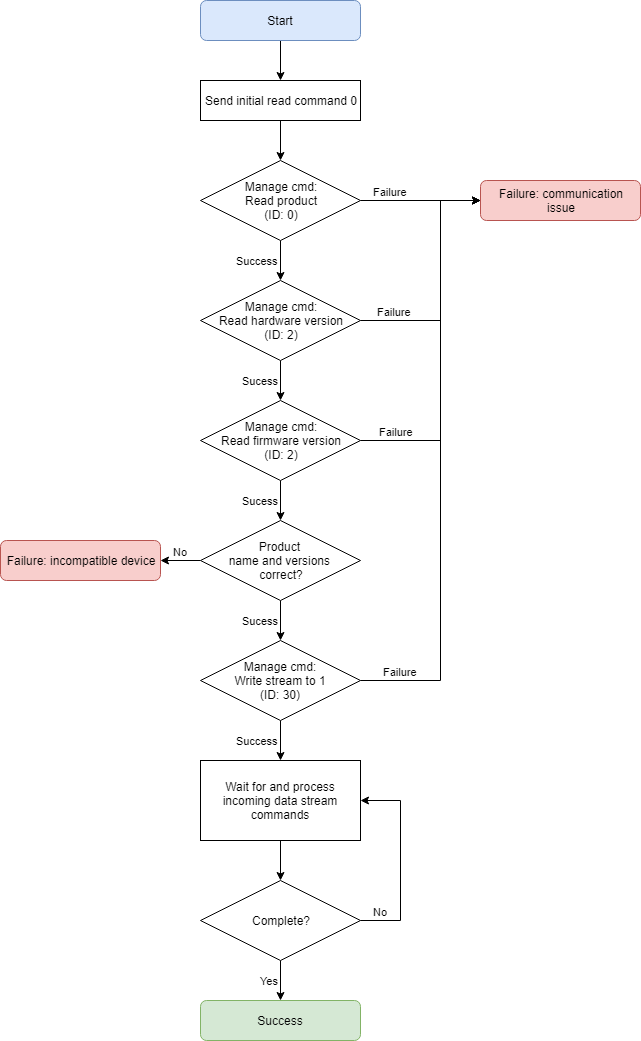
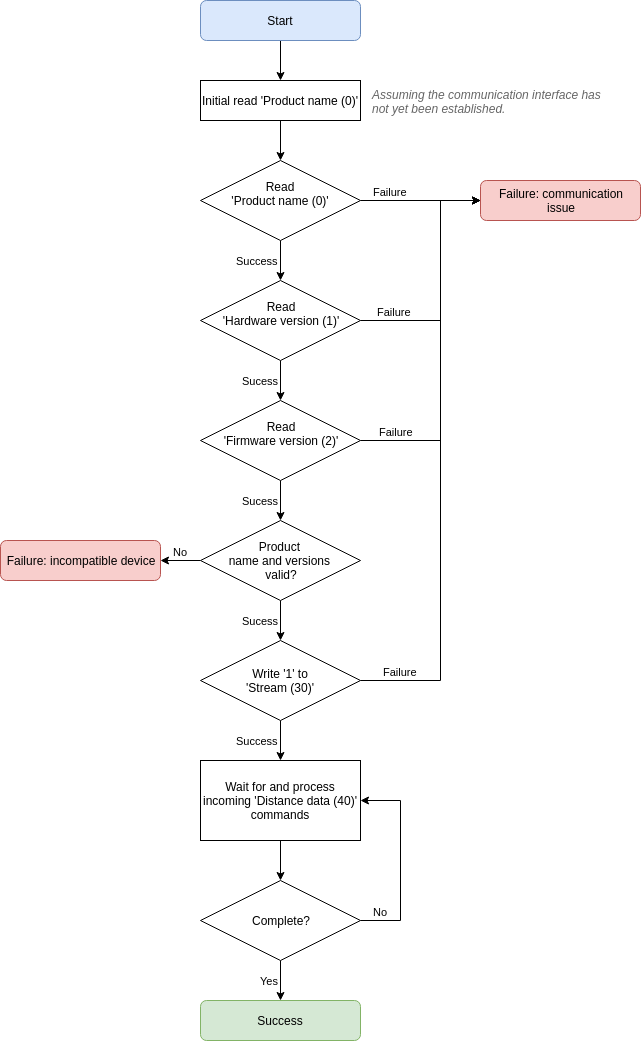
Changes.

diff --git a/serial.md b/serial.md
@@ -2,45 +2,63 @@
 
 ## Overview
 
-3V to 5V compat? The LW316 has a fixed Baudrate of 921600, which is required for the data streaming. Future versions of firmware will allow a selectable baud rate.
-Use packets to communicate, see: 
+The serial interface has the following properties:
+- Baud rate: `921600`
+- Data: `8 bit`
+- Parity: `none`
+- Stop: `1 bit`
+- Flow control: `none`
 
-Communication over this interface is strictly done with encapsulated packets.
+Communication is performed using encapsulated packets for both sending and receiving data. Every packet that is sent to the LW316 is known as a `request` and a correctly formatted request will always be replied to with a `reponse`. There are cases where the LW316 will send a request packet to the host, these packets are considered `streaming` packets as they can arrive continuously without a direct request from the host - they do not require a response.
 
-Request/response vs streaming.
-Reading and writing are set with a bit in the binary request packet.
-
-Read vs Writing.
-
-Response recevied when read/write
+Requests are made using one of the available [commands](commands.md) and are either flagged as `read` or `write`. When a read request is issued then the response will contain the requested data. When a write request is issued then the contents of the response will vary depending on the command.
 
 ## Packets
 
-A serial communication packet, whether receving or transmitting, is composed of the following bytes:
+A packet for both requests and responses is composed of the following bytes:
 
-| Name | Size | Data type | Description |
-|------|-------------|------|-----------|
-| Start | 1 | uint8 | Always 0xFE |
-| Flags | 2 | uint16 | See below for bit representation |
-| ID | 1 | uint8 | Command ID |
-| Data | N | uint8[N] | Data payload |
-| CRC | 2 | uint16 | Checksum of header and payload |
+<table>
+    <tr>
+        <td colspan="3">Header</td>
+        <td colspan="2">Payload</td>
+        <td colspan="2">Checksum</td>
+    </tr>
+    <tr>
+        <td>Start</td>
+        <td>Flags Low</td>
+        <td>Flags High</td>
+        <td>ID</td>
+        <td>Data 0 .. N</td>
+        <td>CRC Low</td>
+        <td>CRC High</td>
+    </tr>
+</table>
 
-!> `Flags` and `CRC` are 16 bit integers. Their bytes should be in little-endian order (least significant first) when being written into a packet.
+The `Start` byte is always 0xFE and indicates the beginning of a packet. It is important to veryify that the payload length is sane (0 to 1023 bytes) and that the checksum is valid before processing a packet, rather than just relying on the start byte.
 
-The ID byte represents the command to read or write.
+The `Flags` bytes form a 16 bit integer that represents the payload length and read/write status of the packet. The payload length is inclusive of the ID byte and the required number of data bytes. The write bit is set to `1` to indicate write mode, or `0` to indicate read mode.
 
-The packet always begins with a start byte of 0xFE and is followed by a set of flags as described below:
+<table>
+    <tr>
+        <td>15</td><td>14</td><td>13</td><td>12</td><td>11</td><td>10</td><td>9</td><td>8</td><td>7</td><td>6</td><td>5</td><td>4</td><td>3</td><td>2</td><td>1</td><td>0</td>
+    </tr>
+    <tr>
+        <td colspan="10">Payload length (0 to 1023)</td>
+        <td colspan="5">Reserved</td>
+        <td>W</td>
+    </tr>
+</table>
 
-| 15 .. 6 | 5 .. 1 | 0 |
-|---|---|---|
-| Packet length: 0 to 1023 | Reserved | Write bit |
+The `ID` byte represents which command the request/response relates to.
 
-!> Note that the packet length includes the ID byte plus the data length.
+There will be between 0 and 1023 `Data` bytes depending on the command type. Each command under the [detailed command descriptions](command_detail.md) section documents how the data bytes are used.
 
+The `CRC` bytes form a 16 bit checksum value used to validate the integrity of the packet data. Every byte in the packet except for the CRC itself is included in the checkum calculation.
 
 ## Checksum
-Some stuff about the crc. CRC 16 CCITT 0x1021
+Each packet has a 2 byte checksum which is used to validate data integrity. The algorithm is `CRC-16-CCITT 0x1021`, which is idendtical to the XMODEM protocol.
+
+The CRC must be correctly formed for the LW316 to accept and process packets. Below are some examples in various languages for CRC calculation:
 
 **C/C++**
 ```c
@@ -85,24 +103,25 @@ function createCRC(data, size) {
     return crc;
 }
 ```
-## Initiate serial interface
+## Receiving packets
 
-Here is the recommended procedure for establishing communication with the LW316:
+Here is the process for reading the raw serial byte stream and identifying packets. Once a packet has been succesfully read it can be processed based on its command ID.
 
-![alt text](images/flow_connect_serial.png "Initiate flowchart")
+![alt text](images/packet_reading.png "Request/response flowchart")
 
-## Request & response
+!> If the packet length or checksum is invalid then instead of continuing to look for the next start byte, it is possible to roll back to after the failed packet's start byte was found and continue from there. This method is technically more correct, however in practice has little appreciable impact.
 
+## Handling request & response
+
+Every request sent to the LW316 will receive a response, it is often useful to use the response as a way to indicate that the request was received and processed.
 Here is the recommended procedure for sending a command request and reading the response:
 
 ![alt text](images/serial_request_response_flow.png "Request/response flowchart")
 
-## Packet reading
+> The values used for timeout or number of retries should be tuned to the specific application.
 
-![alt text](images/packet_reading.png "Request/response flowchart")
+## Initiating communication
 
-## Application implementation
+The LW316 boots up in a communication agnostic mode and a single serial packet is required to initiate the serial interface. Here is the recommended procedure for establishing serial communication with the LW316:
 
-Applies to both serial/i2c, more of an overall concept.
-
-![alt text](images/basic_flow.png "Request/response flowchart")
+![alt text](images/initiate_serial.png "Initiate flowchart")

diff --git a/commands.md b/commands.md
@@ -2,23 +2,23 @@
 
 > If a command is not readable or writable then it can only be received from the LW316 and not sent to it.
 
-|ID|Name|Description|RW|Read bytes|Write bytes|Persits|
+|ID|Name|Description|RW|Read bytes|Write bytes|Persists|
 |---|---|---|---|---|---|---|
-|0	|[Product name](command_detail?id=_0-product-name)			|Product name									|R	|16	|-	|-|
-|1	|[Hardware version](/)		|Hardware revision								|R	|4	|-	|-|
-|2	|[Firmware version](/)		|Firmware revision								|R	|4	|-	|-|
-|3	|[Serial number](/)			|Serial number									|R	|16	|-	|-|
-|4	|[Command count](/)			|												|R	|1	|-	|-|
-|5	|[Command descriptor](/)	|												|RW	|512|1	|-|
-|6	|[Get all descriptors](/)	|												|W	|-	|0	|-|
-|7	|[UTF8 text message](/)		|												|-	|-	|-	|-|
-|9	|[User data](/)				|												|RW	|16	|16	|Y|
-|10	|[Token](/)					|												|R	|2	|-	|-|
-|11	|[Start bootloader](/)		|												|W	|-	|2	|-|
-|12	|[Save parameters](/)		|												|W	|-	|2	|-|
-|30	|[Stream](/)				|												|RW	|4	|4	|N|
-|31	|[Stream statistics](/)		|												|RW	|1	|1	|N|
-|35	|[Statistics data](/)		|												|-	|-	|-	|-|
-|40	|[Distance data](/)			|												|-	|-	|-	|-|
-|70	|[Median filter size](/)	|												|-	|-	|-	|-|
-|71	|[Smoothing factor](/)		|												|-	|-	|-	|-|
+|0	|[Product name](command_detail?id=_0-product-name)		        	|Product name									|R	|16	|-	|-|
+|1	|[Hardware version](command_detail?id=_1-hardware-version)	    	|Hardware revision								|R	|4	|-	|-|
+|2	|[Firmware version](command_detail?id=_2-firmware-version)	    	|Firmware revision								|R	|4	|-	|-|
+|3	|[Serial number](command_detail?id=_3-serial-number)		    	|Serial number									|R	|16	|-	|-|
+|4	|[Command count](command_detail?id=_4-command-count)		    	|Number of available command descriptors        |R	|1	|-	|-|
+|5	|[Command descriptor](command_detail?id=_5-command-descriptor)  	|JSON description of specified command			|RW	|512|1	|-|
+|6	|[Get all descriptors](command_detail?id=_6-get-all-descriptors)	|Send a command descriptor for every command   	|W	|-	|0	|-|
+|7	|[UTF8 text message](command_detail?id=_7-utf8-text-message)		|Human readable text message					|-	|-	|-	|-|
+|9	|[User data](command_detail?id=_9-user-data)				        |16 byte store for user data					|RW	|16	|16	|Y|
+|10	|[Token](command_detail?id=_10-token)					            |Next useable safety token      				|R	|2	|-	|-|
+|11	|[Start bootloader](command_detail?id=_11-start-bootloader)		    |Start bootloader				    			|W	|-	|2	|-|
+|12	|[Save parameters](command_detail?id=_12-save-parameters)		    |Store persistable parameters					|W	|-	|2	|-|
+|30	|[Stream](command_detail?id=_30-stream)				                |Current data stream type						|RW	|4	|4	|N|
+|31	|[Stream statistics](command_detail?id=_31-statistics)	    	    |Enable/disable statistics streaming			|RW	|1	|1	|N|
+|35	|[Statistics data](command_detail?id=_35-statistics-data)		    |General status information						|-	|-	|-	|-|
+|40	|[Distance data](command_detail?id=_40-distance-data)			    |Distance data for all 16 beams					|-	|-	|-	|-|
+|70	|[Median filter size](command_detail?id=_70-median-filter-size)	    |Number of distance samples used for median filter		|RW	|1	|1	|Y|
+|71	|[Smoothing factor](command_detail?id=_71-smoothing-factor)		    |Strength of distance sample smoothing 		|RW	|1	|1	|Y|

diff --git a/command_detail.md b/command_detail.md
@@ -1,54 +1,63 @@
 # Detailed command descriptions
 
+---
 ## 0. Product name
-?> Read 16 bytes (null terminated string)
 
-Read a 16 byte string indicating the product model name. This will always be `LW316` followed by a null terminator. You can use this to verify the LW316 is connected and operational over the selected interface. When the bootloader is active this will return `BOOT` followed by a null terminator.
 
+A `16 byte string` indicating the product model name. This will always be `LW316` followed by a null terminator. You can use this to verify the LW316 is connected and operational over the selected interface. When the bootloader is active this will return `BOOT` followed by a null terminator.
+
+|Read|Write|Persists|
+|---|---|---|
+| `16 byte string` | - | - |
+
+---
 ## 1. Hardware version
-?> Read 4 bytes
 
-Represents the current hardware revision. Different versions of firmware will be available for different hardware revisions.
+The hardware revision number as a `uint32`.
 
-| 1 | 2 | 3 | 4 |
-|---|---|---|---|
-|Version|Reserved|Reserved|Reserved|
+|Read|Write|Persists|
+|---|---|---|
+| `uint32` | - | - |
 
-> *Hardware version* will potentially be merged with *Firmware version* in the future.
-
+---
 ## 2. Firmware version
-?> Read 4 bytes
 
-Used to determine API compatability. The [version support](?id=version-support) section details which firmware versions this document applies to.
+The version of currently installed firmware represented as `4 bytes`. This can be used to identify the product for API compatability. The [product support](/?id=product-support) section details which firmware versions this document applies to.
 
 | 1 | 2 | 3 | 4 |
 |---|---|---|---|
 |Patch|Minor|Major|Reserved|
 
+|Read|Write|Persists|
+|---|---|---|
+| 4 bytes | - | - |
+
+---
 ## 3. Serial number
 
-?> Read 16 bytes
+A `16 byte string` (null terminated) of the serial identifier assigned during production.
 
-Serial identifier assigned during production. The 16 bytes will contain a null terminated ASCII string.
+|Read|Write|Persists|
+|---|---|---|
+| `16 byte string` | - | - |
 
+---
 ## 4. Command count
-
-?> Read 1 byte (uint8)
 
 Number of available command descriptors. Note that this includes reserved command IDs. Command descriptors can be read/requested using the `Command descriptor` or `Get all descriptors` commands.
 
+|Read|Write|Persists|
+|---|---|---|
+| `uint8` | - | - |
+
+---
 ## 5. Command descriptor
 
-**Write**
-
-?> Write 1 byte
-
-
-#### Read
-?> Read 512 bytes
+Reading the `Command descriptor` will return a `512 byte string` (null terminated) which contains JSON describing the command whose ID was last written to `Command descriptor`.
 
 !> Note that the serial interface will trim the byte output to the null terminator instead of emitting all 512 bytes, however over I2C all 512 bytes should be read to avoid missing the end of the descriptor.
 
+An example of a JSON descriptor:
 ```json
 {
 	"id": 0,
@@ -65,6 +74,12 @@ Number of available command descriptors. Note that this includes reserved comman
 }
 
 ```
+
+Writing a `uint8` to the `Command descriptor` will set the ID of the next command to be described.
+
+|Read|Write|Persists|
+|---|---|---|
+| `512 byte string` | `uint8` | - |
 
 ## 6. Get all descriptors
 

diff --git a/communication.md b/communication.md
@@ -2,4 +2,4 @@
 
 The LW316 has two methods of communication: a binary packet interface over serial uart and a register based I2C interface.
 
-When the LW316 first receives power it will enter a neutral interface mode. Sending an initial command over either serial or i2c will indicate which interface to activate. See [Serial interface](serial.md) and [I2C interface](i2c.md) for more detail about each.
+When the LW316 first receives power it will wait for one of the interfaces to be selected. Sending an initial command over either serial or i2c will indicate which interface to activate. See [Serial interface](serial.md) and [I2C interface](i2c.md) for more detail about each.

diff --git a/version.md b/version.md
@@ -1,6 +1,6 @@
 <!-- ![alt text](images/company_logo_big.png "LightWare logo") -->
 
-# About this document
+# Version information
 
 ## Product support
 This document supports the following LW316 configurations:
@@ -18,11 +18,7 @@ This document supports the following LW316 configurations:
 | 0 | 26/03/2018 | Initial pre-release draft for prototype devices. |
 
 
-## Disclaimer
 
-Information found in this document is used entirely at the reader’s own risk and whilst every effort has been made to
-ensure its validity, neither LightWare Optoelectronics (Pty) Ltd nor its representatives make any warranties with respect
-the accuracy of the information contained herein.
 
 
 

diff --git a/_sidebar.md b/_sidebar.md
@@ -1,7 +1,7 @@
-* Fundamentals
-  * [Version support](/)
-  * [Functionality](/)
-  * [Specifications](/)
+* Overview
+  * [This document](/)
+  * [Functionality](functionality.md)
+  * [Specifications](specs.md)
   * [Updating firmware](firmware.md)
 
 * Communication interfaces
@@ -14,6 +14,5 @@
   * [Detailed descriptions](command_detail.md)
 
 * Implementation guides
-  * [Streaming data](/)
-  * [Saving parameters](/)
-  * [Upgrading firmware](/)
+  * [Streaming data](streaming.md)
+  * [Saving parameters](saving.md)

diff --git a/saving.md b/saving.md
@@ -1,0 +1,5 @@
+# Saving parameters
+
+The LW316 has parameters that can persist across power cycles. These parameters will only persist once the `Save parameters` command has been issued with the appropriate `token`. See the [Save parameters](command_detail?id=_12-save-parameters) command for more information.
+
+Here is the procedure for getting and using a token for parameter saving:

diff --git a/i2c.md b/i2c.md
@@ -1,7 +1,3 @@
-!> Please note that this section is heavily under construction.
-
 # I2C interface
 
-## Overview
-
-!> The LW316 does not automaticaly increment the register address after an i2c read command. You must explicitly do an i2c read command for each register you want to read.
+!> Please note that this section is under construction.

diff --git a/streaming.md b/streaming.md
@@ -1,0 +1,5 @@
+# Streaming data
+
+This example shows how to establish communication and initiate a type `1` data stream. See the [Stream](command_detail?id=_30-stream) command for more information.
+
+![alt text](images/basic_flow.png "Request/response flowchart")

diff --git a/firmware.md b/firmware.md
@@ -1,3 +1,5 @@
 # Updating firmware
 
+!> Under construction.
+
 Download LightWare Studio. Use firmware management utility to download and update.
